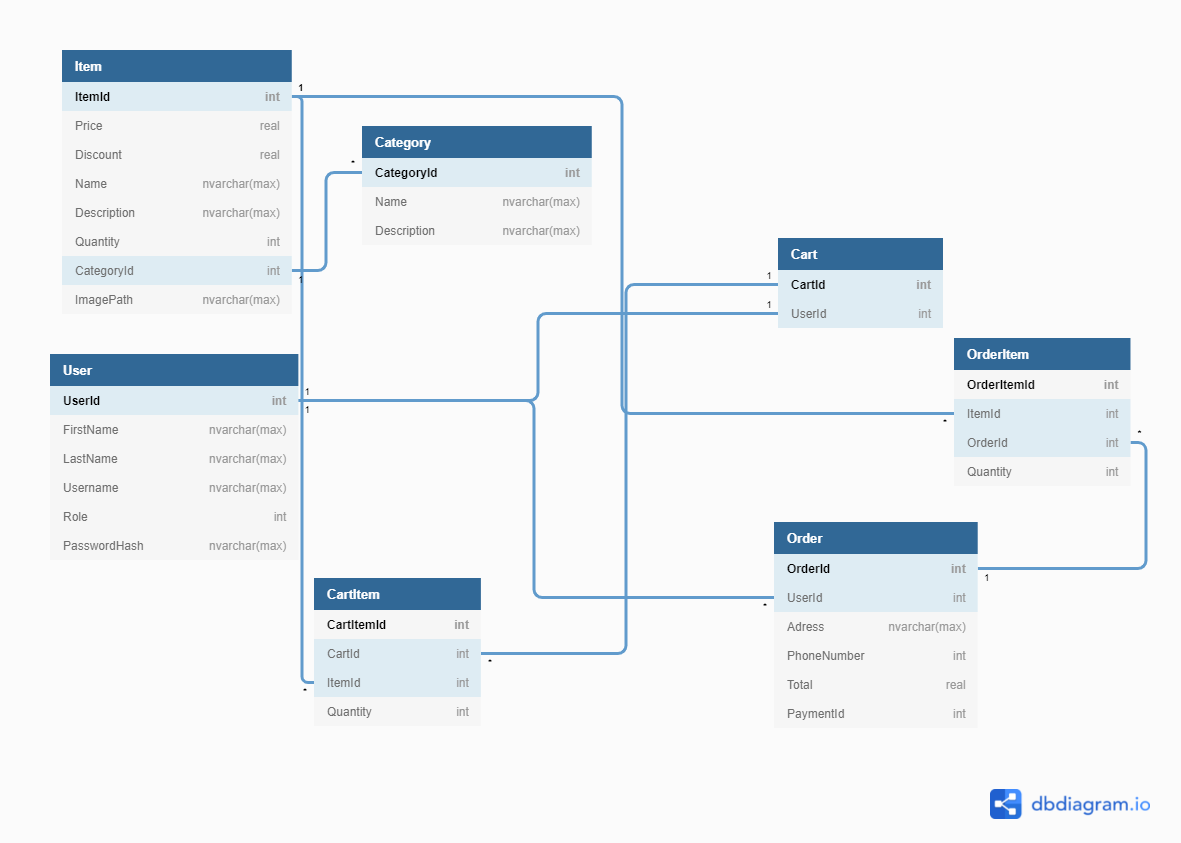
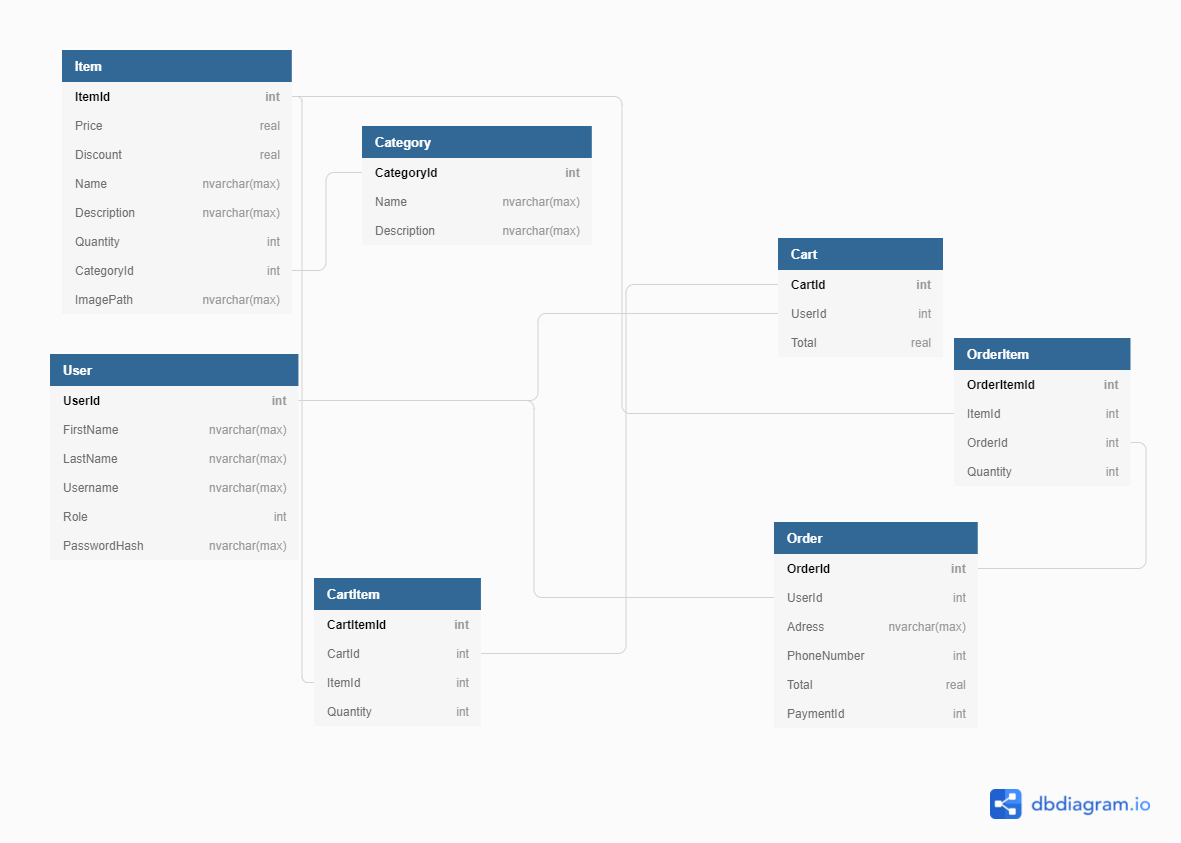
feat: GET user cart and cart items, POST new item to cart, DELETE item from cart

diff --git a/eShop/Controllers/CartController.cs b/eShop/Controllers/CartController.cs
@@ -1,0 +1,129 @@
+using eShop.Authorization;
+using eShop.Entities;
+using eShop.Helpers;
+using eShop.Models;
+using Microsoft.AspNetCore.Http;
+using Microsoft.AspNetCore.Mvc;
+using Microsoft.EntityFrameworkCore;
+using System;
+using System.Collections.Generic;
+using System.Linq;
+using System.Threading.Tasks;
+
+namespace eShop.Controllers
+{ 
+    [Authorize]
+    [Route("[controller]")]
+    [ApiController]
+    public class CartController: ControllerBase
+    {
+        private readonly DataContext _context;
+        private IHttpContextAccessor _httpContextAccessor;
+
+        public CartController(DataContext context, IHttpContextAccessor httpContextAccessor)
+        {
+            _context = context;
+            _httpContextAccessor = httpContextAccessor;
+        }
+
+        User getUser()
+        {
+            User user = (User)_httpContextAccessor.HttpContext.Items["User"];
+
+            if (user == null)
+            {
+                throw new KeyNotFoundException("Unknown user");
+            }
+
+            return user;
+        }
+
+        [Authorize(Role.User)]
+        [HttpGet]
+        public async Task<ActionResult<Cart>> GetCart()
+        {
+            User user = getUser();
+
+            var userCart = await _context.Carts.Where(c => c.UserId == user.UserId).FirstOrDefaultAsync();
+
+            await _context.Entry(userCart).Collection(s => s.CartItems).LoadAsync();
+
+            return userCart;
+        }
+
+        [Authorize(Role.User)]
+        [HttpPost]
+        public async Task<ActionResult<CartItem>> addItemToCart(AddItemRequest req)
+        {
+            //get user and user cart
+            User user = getUser();
+            Cart cart = await _context.Carts.Where(c => c.UserId == user.UserId).FirstOrDefaultAsync();
+            await _context.Entry(cart).Collection(s => s.CartItems).LoadAsync();
+
+            //check if item is already in the cart
+            //in that case quantity should be modified
+            foreach(var ci in cart.CartItems)
+            {
+                if(ci.ItemId == req.ItemId)
+                {
+                    throw new AppException("Cannot add an item that is already in the cart");
+                }
+            }
+            //find if item with id exists
+            Item item = await _context.Items.FindAsync(req.ItemId);
+            if (item == null)
+            {
+                throw new KeyNotFoundException("No such item id");
+            }
+
+            //make a cart item for a cart based on itemId
+            CartItem cartItem = new CartItem { CartId = cart.CartId, ItemId = req.ItemId, Quantity = req.Quantity };
+            _context.CartItems.Add(cartItem);
+            await _context.SaveChangesAsync();
+
+            //update the total price of items in the cart
+            float Price = item.Price;
+            cart.Total += cartItem.Quantity*Price;
+
+            //update the total price of items in the cart
+            _context.Entry(cart).State = EntityState.Modified;
+            await _context.SaveChangesAsync();
+
+            return CreatedAtAction(nameof(GetCart), new { id = cart.CartId }, cart);
+
+        }
+
+        /*
+            Find item delete it from the cart if the current user is the cart owner.
+            Then substract the item from the total price
+         */
+        [Authorize(Role.User)]
+        [HttpDelete("{id}")]
+        public async Task<IActionResult> deleteCartItem(int id)
+        {
+            var cartItem = await _context.CartItems.FindAsync(id);
+            if(cartItem == null)
+            {
+                throw new KeyNotFoundException("Cart Item doesn't exist");
+            }
+
+            User user = getUser();
+            Cart cart = await _context.Carts.FindAsync(cartItem.CartId);
+            if(cart.UserId != user.UserId)
+            {
+                return Unauthorized();
+            }
+
+            _context.CartItems.Remove(cartItem);
+
+            Item item = await _context.Items.FindAsync(cartItem.ItemId);
+            cart.Total -= item.Price * cartItem.Quantity;
+
+            _context.Entry(cart).State = EntityState.Modified;
+            await _context.SaveChangesAsync();
+
+            return NoContent();
+        }
+
+    }
+}

diff --git a/eShop/Migrations/20220218142331_CartItems list.Designer.cs b/eShop/Migrations/20220218142331_CartItems list.Designer.cs
@@ -3,15 +3,17 @@ using System;
 using Microsoft.EntityFrameworkCore;
 using Microsoft.EntityFrameworkCore.Infrastructure;
 using Microsoft.EntityFrameworkCore.Metadata;
+using Microsoft.EntityFrameworkCore.Migrations;
 using Microsoft.EntityFrameworkCore.Storage.ValueConversion;
 using eShop.Helpers;
 
 namespace eShop.Migrations
 {
     [DbContext(typeof(DataContext))]
-    partial class DataContextModelSnapshot : ModelSnapshot
+    [Migration("20220218142331_CartItems list")]
+    partial class CartItemslist
     {
-        protected override void BuildModel(ModelBuilder modelBuilder)
+        protected override void BuildTargetModel(ModelBuilder modelBuilder)
         {
 #pragma warning disable 612, 618
             modelBuilder
@@ -56,9 +58,6 @@ namespace eShop.Migrations
                         .ValueGeneratedOnAdd()
                         .HasColumnType("int")
                         .HasAnnotation("SqlServer:ValueGenerationStrategy", SqlServerValueGenerationStrategy.IdentityColumn);
-
-                    b.Property<float>("Total")
-                        .HasColumnType("real");
 
                     b.Property<int>("UserId")
                         .HasColumnType("int");

diff --git a/eShop/Migrations/20220218142331_CartItems list.cs b/eShop/Migrations/20220218142331_CartItems list.cs
@@ -1,0 +1,34 @@
+using Microsoft.EntityFrameworkCore.Migrations;
+
+namespace eShop.Migrations
+{
+    public partial class CartItemslist : Migration
+    {
+        protected override void Up(MigrationBuilder migrationBuilder)
+        {
+            migrationBuilder.CreateIndex(
+                name: "IX_CartItems_CartId",
+                table: "CartItems",
+                column: "CartId");
+
+            migrationBuilder.AddForeignKey(
+                name: "FK_CartItems_Carts_CartId",
+                table: "CartItems",
+                column: "CartId",
+                principalTable: "Carts",
+                principalColumn: "CartId",
+                onDelete: ReferentialAction.Cascade);
+        }
+
+        protected override void Down(MigrationBuilder migrationBuilder)
+        {
+            migrationBuilder.DropForeignKey(
+                name: "FK_CartItems_Carts_CartId",
+                table: "CartItems");
+
+            migrationBuilder.DropIndex(
+                name: "IX_CartItems_CartId",
+                table: "CartItems");
+        }
+    }
+}

diff --git a/eShop/Migrations/20220218150508_Cart Total price.Designer.cs b/eShop/Migrations/20220218150508_Cart Total price.Designer.cs
@@ -3,15 +3,17 @@ using System;
 using Microsoft.EntityFrameworkCore;
 using Microsoft.EntityFrameworkCore.Infrastructure;
 using Microsoft.EntityFrameworkCore.Metadata;
+using Microsoft.EntityFrameworkCore.Migrations;
 using Microsoft.EntityFrameworkCore.Storage.ValueConversion;
 using eShop.Helpers;
 
 namespace eShop.Migrations
 {
     [DbContext(typeof(DataContext))]
-    partial class DataContextModelSnapshot : ModelSnapshot
+    [Migration("20220218150508_Cart Total price")]
+    partial class CartTotalprice
     {
-        protected override void BuildModel(ModelBuilder modelBuilder)
+        protected override void BuildTargetModel(ModelBuilder modelBuilder)
         {
 #pragma warning disable 612, 618
             modelBuilder

diff --git a/eShop/Startup.cs b/eShop/Startup.cs
@@ -18,6 +18,7 @@ using System.Linq;
 using System.Text.Json.Serialization;
 using System.Threading.Tasks;
 using BCryptNet = BCrypt.Net.BCrypt;
+using Microsoft.AspNetCore.Http;
 
 namespace eShop
 {
@@ -36,11 +37,14 @@ namespace eShop
 
             services.AddCors();
 
+            services.AddSingleton<IHttpContextAccessor, HttpContextAccessor>();
+
             services.AddControllers().AddJsonOptions(x =>
                 x.JsonSerializerOptions.Converters.Add(new JsonStringEnumConverter())
             );
 
-           
+            
+
             services.AddSwaggerGen(c =>
             {
                 c.SwaggerDoc("v1", new OpenApiInfo { Title = "eShop", Version = "v1" });

diff --git a/eShop/Migrations/20220218150508_Cart Total price.cs b/eShop/Migrations/20220218150508_Cart Total price.cs
@@ -1,0 +1,24 @@
+using Microsoft.EntityFrameworkCore.Migrations;
+
+namespace eShop.Migrations
+{
+    public partial class CartTotalprice : Migration
+    {
+        protected override void Up(MigrationBuilder migrationBuilder)
+        {
+            migrationBuilder.AddColumn<float>(
+                name: "Total",
+                table: "Carts",
+                type: "real",
+                nullable: false,
+                defaultValue: 0f);
+        }
+
+        protected override void Down(MigrationBuilder migrationBuilder)
+        {
+            migrationBuilder.DropColumn(
+                name: "Total",
+                table: "Carts");
+        }
+    }
+}

diff --git a/eShop/Services/UserService.cs b/eShop/Services/UserService.cs
@@ -9,6 +9,7 @@ using System.Collections.Generic;
 using System.Linq;
 using System.Threading.Tasks;
 using BCryptNet = BCrypt.Net.BCrypt;
+using eShop.Models;
 
 namespace eShop.Services
 {
@@ -61,6 +62,10 @@ namespace eShop.Services
 
             //save user to DB
             _context.Users.Add(user);
+            _context.SaveChanges();
+
+            var cart = new Cart { UserId = user.UserId };
+            _context.Carts.Add(cart);
             _context.SaveChanges();
 
             //make a token for user

diff --git a/eShop/Models/AddItemRequest.cs b/eShop/Models/AddItemRequest.cs
@@ -1,0 +1,13 @@
+using System;
+using System.Collections.Generic;
+using System.Linq;
+using System.Threading.Tasks;
+
+namespace eShop.Models
+{
+    public class AddItemRequest
+    {
+        public int ItemId { get; set; }
+        public int Quantity { get; set; }
+    }
+}

diff --git a/eShop/Models/Cart.cs b/eShop/Models/Cart.cs
@@ -13,5 +13,9 @@ namespace eShop.Models
 
         [Required]
         public int UserId { get; set; }
+
+        [System.ComponentModel.DefaultValue(0)]
+        public float Total { get; set; }
+        public IList<CartItem> CartItems { get; set; }
     }
 }
